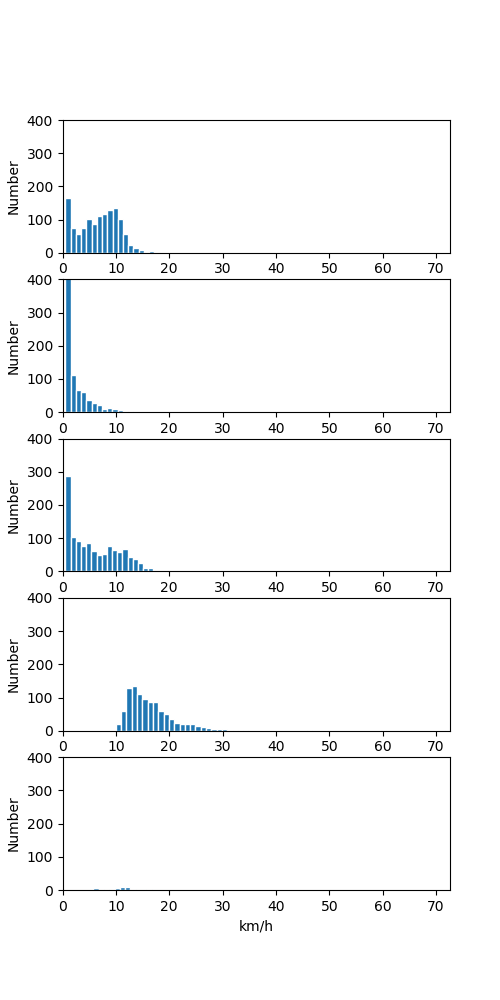
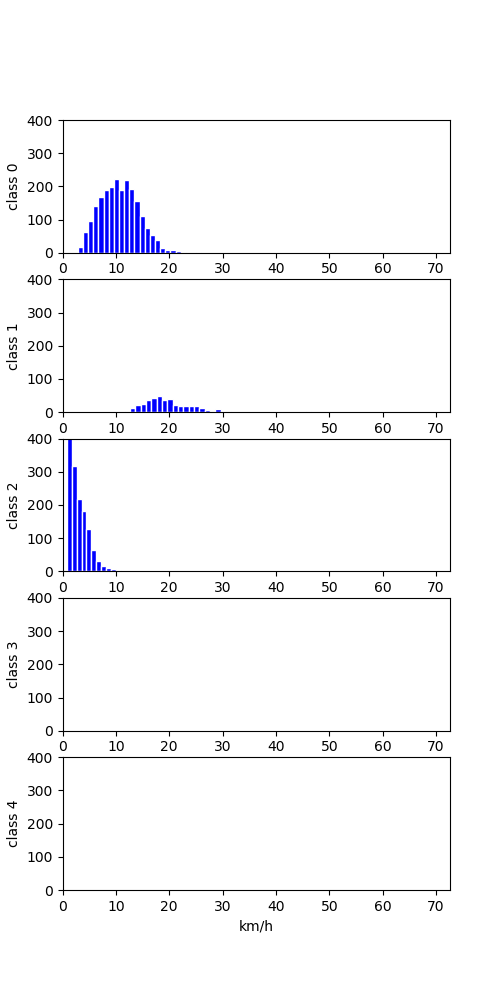
Time: 2019-09-20 14:58:07

diff --git a/4_splitSpeedIntercal.py b/4_splitSpeedIntercal.py
@@ -1,0 +1,102 @@
+# -*- coding: utf-8 -*-
+'''
+@Description: 
+@Version: 1.0.0
+@Author: louishsu
+@Github: https://github.com/isLouisHsu
+@E-mail: is.louishsu@foxmail.com
+@Date: 2019-09-20 11:07:51
+@LastEditTime: 2019-09-20 14:57:35
+@Update: 
+'''
+import os
+import numpy as np
+from matplotlib import pyplot as plt
+
+sequences = []
+features = []
+for i in range(1, 4):
+    sequences += [np.load('output/gpsSpeedSequences_file%d.npy' % i)]
+    features  += [np.load('output/gpsSpeedFeat_file%d.npy' % i)]
+sequences = np.concatenate(sequences, axis=0)
+features  = np.concatenate(features,  axis=0)
+
+# ------------------------------------------------------------------------------------
+feat      = features[:, 0]                                  # 最大速度(m/s)
+index     = np.argsort(feat)
+sequences = sequences[index]
+features  = features [index]
+
+# ------------------------------------------------------------------------------------
+totalTime = 1200.
+featLandmarks = [10, 30]
+sumRunTime = np.sum(features[:, 3])                         # 运行时间(s)
+
+# ------------------------------------------------------------------------------------
+fig = plt.figure(figsize=(12, 12)); plt.title("Runing Time(s)")
+
+T = []; t = []; N = []
+for i in range(len(featLandmarks) + 1):
+
+    ## 当前速度区间
+    if i == 0:
+        index = feat < featLandmarks[i]
+    elif i == len(featLandmarks):
+        index = feat > featLandmarks[i - 1]
+    elif i > 0 and i < len(feat) - 1:
+        index1 = feat > featLandmarks[i - 1]
+        index2 = feat < featLandmarks[i]
+        index  = np.bitwise_and(index1, index2)
+    subSequence = sequences[index]
+    subFeature  = features [index]
+    
+    Tk = subFeature[:, 3].sum() / sumRunTime * totalTime    # 当前速度区间，运动片段运行时长之和 / 所有运动片段运行时长之和
+    tk = subFeature[:, 3].mean()                            # 当前速度区间，平均运行时长
+    Nk = int(np.round(Tk / tk))                             # 当前速度区间，划分的累积频率区间数目
+    T += [Tk]; t += [tk]; N += [Nk]
+
+    n, bins = np.histogram(subFeature[:, 3], bins=50)
+    bins = (bins[:-1] + bins[1:]) / 2.
+    freq = n / n.sum()
+    cumFreq = [np.sum(freq[:i+1]) for i in range(freq.shape[0])]
+    
+    ax = fig.add_subplot(len(featLandmarks) + 1, 2, i * 2 + 1)
+    ax.set_xlabel("time(s)")
+    ax.set_ylabel("frequency(%)")
+    ax.bar(list(range(freq.shape[0])), freq)
+    ax = fig.add_subplot(len(featLandmarks) + 1, 2, i * 2 + 2)
+    ax.set_xlabel("time(s)")
+    ax.set_ylabel("cumulative frequency(%)")
+    # for i in range(Nk): ax.hlines(i / Nk, 0, freq.shape[0], 'r', 'dotted')
+    # ax.vlines(tk, 0, 1, 'r', 'dotted')
+    ax.plot(bins, cumFreq)
+    ax.grid()
+
+# ------------------------------------------------------------------------------------
+# fig = plt.figure(figsize=(12, 6)); plt.title("Runing Time(s)")
+# for i in range(len(featLandmarks) + 1):
+
+#     ## 当前速度区间
+#     if i == 0:
+#         index = feat < featLandmarks[i]
+#     elif i == len(featLandmarks):
+#         index = feat > featLandmarks[i - 1]
+#     elif i > 0 and i < len(feat) - 1:
+#         index1 = feat > featLandmarks[i - 1]
+#         index2 = feat < featLandmarks[i]
+#         index  = np.bitwise_and(index1, index2)
+#     subSequence = sequences[index]
+#     subFeature  = features [index]
+#     subSumRunTime = subFeature[:, 3].sum()
+#     Tk = subSumRunTime / sumRunTime * totalTime         # 当前速度区间，运动片段运行时长之和 / 所有运动片段运行时长之和 x 总时间
+#     ta = subFeature[:, 5].sum() / subSumRunTime * Tk    # 当前速度区间，平均加速时间 / 平均时长 x 当前分配时长
+#     ts = subFeature[:, 6].sum() / subSumRunTime * Tk    # 当前速度区间，平均减速时间 / 平均时长 x 当前分配时长
+#     tu = Tk - (ta + ts)                                 # 当前速度区间，平均匀速时间 / 平均时长 x 当前分配时长
+    
+#     ax = fig.add_subplot(len(featLandmarks) + 1, 1, i + 1)
+#     ax.set_xlabel("time(s)")
+#     ax.set_ylabel("frequency(%)")
+#     ax.bar(list(range(freq.shape[0])), freq)
+
+plt.savefig("images/running_time2.png")
+plt.show()

diff --git a/1_preprocessing.py b/1_preprocessing.py
@@ -6,7 +6,7 @@
 @Github: https://github.com/isLouisHsu
 @E-mail: is.louishsu@foxmail.com
 @Date: 2019-09-19 11:01:14
-@LastEditTime: 2019-09-20 10:30:51
+@LastEditTime: 2019-09-20 14:36:19
 @Update: 
 '''
 import os
@@ -18,7 +18,7 @@ import pywt
 
 from dwt_signal_decomposition import plot_signal_decomp, dwtDecompose
 
-IDLETHRESH = 2.
+IDLETHRESH = 3.
 
 def timestamp2unix(timestamp):
     """
@@ -106,37 +106,48 @@ def calFeaturesOfSequence(seq, speedThresh=IDLETHRESH, maxIdle=180, dwtTime=1):
         seq = seq[maxIdle: ]             
         idxStart -= maxIdle
 
-    seq    = seq / 3.6                              # m/s
+    seq    = seq / 3.6                                  # m/s
     n_sec  = seq.shape[0]
     n_dist = seq.sum()
 
-    accelerate = np.r_[0, seq[1:] - seq[:-1]]       # 加速度(m/s)
+    n_ = 2
+    temp = np.r_[np.zeros(n_), seq]
+    accelerate = temp[n_:] - temp[:-n_]       # 加速度(m/s)
     accelerate = accelerate[idxStart:]
 
     feature = []
     
-    feature += [seq.max()]                          # 峰值速度(m/s)
-    feature += [n_dist / (n_sec - idxStart)]        # 平均速度(m/s)
-    feature += [seq.std()]                          # 速度标准差
+    feature += [seq.max()]                              # 0, 峰值速度(m/s)
+    feature += [n_dist / (n_sec - idxStart)]            # 1, 平均速度(m/s)
+    feature += [seq.std()]                              # 2, 速度标准差
+    
+    feature += [n_sec - idxStart]                       # 3, 运行时间(s)
+    feature += [n_sec]                                  # 4, 时长(s)
 
-    feature += [np.where(accelerate > 0.)[0].shape[0]]  # 加速时间(s)
-    feature += [np.where(accelerate < 0.)[0].shape[0]]  # 减速时间(s)
+    feature += [np.where(accelerate > 0.)[0].shape[0]]  # 5, 加速时间(s)
+    feature += [np.where(accelerate < 0.)[0].shape[0]]  # 6, 减速时间(s)
 
-    feature += [accelerate.max()]                   # 峰值加速度
-    feature += [accelerate.min()]                   # 峰值减速度
+    feature += [accelerate.max()]                       # 7, 峰值加速度
+    feature += [accelerate.min()]                       # 8, 峰值减速度
 
     temp = accelerate[accelerate > 0.]
-    feature += [temp.mean()]                        # 平均加速度
-    feature += [temp.std()]                         # 加速度标准差
+    if temp.shape[0] == 0:
+        feature += [0]                                  # 9, 平均加速度
+        feature += [0]                                  # 10, 加速度标准差
+    else:
+        feature += [temp.mean()]                        # 9, 平均加速度
+        feature += [temp.std()]                         # 10, 加速度标准差
     temp = accelerate[accelerate < 0.]
-    feature += [temp.mean()]                        # 平均减速度
-    feature += [temp.std()]                         # 减速度标准差
-    
-    feature += [n_sec - idxStart]                   # 运行时间(s)
-    # feature += [n_sec]                              # 时长(s)
-    # feature += [n_dist]                             # 距离(m)
-    feature += [idxStart / n_sec]                   # 怠速时间比(%)
-    feature += [n_dist / n_sec]                     # 平均运行速度(m/s)
+    if temp.shape[0] == 0:
+        feature += [0]                                  # 11, 平均减速度
+        feature += [0]                                  # 12, 减速度标准差
+    else:
+        feature += [temp.mean()]                        # 11, 平均减速度
+        feature += [temp.std()]                         # 12, 减速度标准差
+        
+    feature += [n_dist]                                 # 距离(m)
+    feature += [idxStart / n_sec]                       # 13, 怠速时间比(%)
+    feature += [n_dist / n_sec]                         # 14, 平均运行速度(m/s)
     
     feature = np.array(feature)
     return feature

diff --git a/3_histClustering.py b/3_histClustering.py
@@ -6,7 +6,7 @@
 @Github: https://github.com/isLouisHsu
 @E-mail: is.louishsu@foxmail.com
 @Date: 2019-09-19 21:22:25
-@LastEditTime: 2019-09-20 11:06:03
+@LastEditTime: 2019-09-20 14:51:24
 @Update: 
 '''
 import os
@@ -26,20 +26,19 @@ features = []
 for i in range(1, 4):
     sequences += [np.load('output/gpsSpeedSequences_file%d.npy' % i)]
     features  += [np.load('output/gpsSpeedFeat_file%d.npy' % i)]
-sequences = np.concatenate(sequences, axis=0)
-features  = np.concatenate(features,  axis=0)
+sequences = np.concatenate(sequences, axis=0); features  = np.concatenate(features,  axis=0)
 
 # ------------------------------------------------------------
+## 查看各类的运动学片段样例
 y = pipeline.predict(features)
 n_classes, n_sequences = len(set(y)), 5
-fig = plt.figure(figsize=(n_classes*2, n_sequences*2))
+fig = plt.figure(figsize=(n_classes*3, n_sequences*2))
 for i in range(n_classes):
     subseq = sequences[y == i]
-    if subseq.shape[0] < n_sequences:
-        continue
     for j in range(n_sequences):
         ax = fig.add_subplot(n_sequences, n_classes, n_classes*j + i + 1)
-        ax.plot(subseq[j * 2])
+        if j < subseq.shape[0]:
+            ax.plot(subseq[j])
         if i == 0:
             ax.set_ylabel("km/h")
         if j == 0:
@@ -47,6 +46,7 @@ for i in range(n_classes):
 plt.savefig("images/sequences_kmeans.png")
 
 # ------------------------------------------------------------
+## 统计总的序列长度直方图、各类别序列长度直方图
 index = 0
 maxSpeed = features[:, index]
 plt.figure()
@@ -55,7 +55,7 @@ plt.xlabel("km/h")
 plt.ylabel("Number")
 plt.xlim(0, maxSpeed.max())
 plt.ylim(0, 400)
-n, bins, patches = plt.hist(maxSpeed, bins=int(maxSpeed.max() - maxSpeed.min()) + 1, edgecolor='white')
+n, bins, patches = plt.hist(maxSpeed, bins=int(maxSpeed.max() - maxSpeed.min()) + 1, facecolor='blue', edgecolor='white')
 plt.savefig("images/speed_hist.png")
 
 plt.figure(figsize=(5, 10))
@@ -64,13 +64,27 @@ for i in range(n_classes):
     subMaxSpeed = features[y == i][:, index]
     plt.subplot(n_classes, 1, i + 1)
     plt.xlabel("km/h")
-    plt.ylabel("Number")
+    plt.ylabel("class %d" % i)
     plt.xlim(0, maxSpeed.max())
     plt.ylim(0, 400)
-    n, bins, patches = plt.hist(subMaxSpeed, bins=int(subMaxSpeed.max() - subMaxSpeed.min()) + 1, edgecolor='white')
+    n, bins, patches = plt.hist(subMaxSpeed, bins=int(subMaxSpeed.max() - subMaxSpeed.min()) + 1, facecolor='blue', edgecolor='white')
 plt.savefig("images/speed_hist_subseq.png")
 
 # ------------------------------------------------------------
+## 删除两种多余的运动学片段，重新计算标签
+deleteClassIndex = [3, 4]
+index = np.ones(features.shape[0], dtype=np.bool)
+for idx in deleteClassIndex:
+    idx = y != idx
+    index = np.bitwise_and(index, idx)
+sequences = sequences[index]
+features  = features [index]
+pipeline.set_params(kmeans__n_clusters=n_clusters - len(deleteClassIndex))
+y = pipeline.fit_predict(features)
+n_classes = len(set(y))
+
+# ------------------------------------------------------------
+## 绘制高斯混合模型曲线
 gmm = GaussianMixture(n_components=n_components)
 gmm.fit(maxSpeed.reshape(-1, 1))
 n, bins, patches = plt.hist(maxSpeed, bins=int(maxSpeed.max() - maxSpeed.min()) + 1, edgecolor='white')
@@ -81,7 +95,8 @@ plt.ylabel("P")
 for i in range(n_components):
     mu, sigma = gmm.means_[i, 0], gmm.covariances_[i, 0]
     y_ = np.exp(-0.5*np.square((bins-mu)/sigma))/(np.sqrt(2*np.pi)*sigma)
-    plt.plot(bins, y_)
+    # plt.plot(bins, y_ * gmm.weights_[i], 'b')
+    plt.plot(bins, y_ * gmm.weights_[i])
     plt.grid()
 plt.savefig("images/speed_hist_GMM.png")
 plt.show()

diff --git a/2_clustering.py b/2_clustering.py
@@ -6,7 +6,7 @@
 @Github: https://github.com/isLouisHsu
 @E-mail: is.louishsu@foxmail.com
 @Date: 2019-09-19 17:58:02
-@LastEditTime: 2019-09-20 10:38:39
+@LastEditTime: 2019-09-20 14:41:03
 @Update: 
 '''
 import os
@@ -20,7 +20,7 @@ from sklearn.cluster import KMeans, DBSCAN
 from sklearn.model_selection import GridSearchCV
 from sklearn.externals import joblib
 
-SCALAR = MinMaxScaler
+SCALAR = StandardScaler
 
 speedFeats = []
 for i in range(1, 4):
@@ -61,7 +61,7 @@ steps = [
 pipline = Pipeline(steps)
 
 scores = []
-n_clusters_list = list(range(3, 7))
+n_clusters_list = list(range(3, 15))
 for n_clusters in n_clusters_list:
     pipline.set_params(kmeans__n_clusters=n_clusters)
     pipline.fit(speedFeats)
@@ -97,4 +97,3 @@ mean_            = pipline.named_steps.pca.mean_
 clusterCenters  = cluster_centers_.dot(components_) + mean_
 clusterCenters  = pipline.named_steps.scaler.inverse_transform(clusterCenters)
 print(clusterCenters)
-pass
